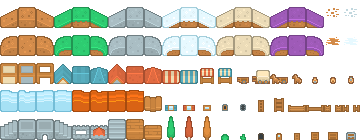
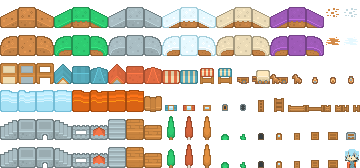
adding npc and trees

diff --git a/scripts/player.js b/scripts/player.js
@@ -12,10 +12,21 @@ let map = [
     4, 4, 4, 4, 4, 4, 4, 4, 4,
     4, 4, 4, 62, 61, 63, 4, 4, 4,
     4, 4, 4, 4, 4, 4, 4, 4, 4,
+    4, 4, 4, 4, 4, 4, 4, 4, 4,
 
 ];
 
-let blockers = [61, 62, 63]
+let mapEnemies = [
+    -1, 112, -1, -1, 90, -1, -1, 113, -1,
+    90, -1, -1, -1, -1, -1, -1, -1, -1,
+    90, -1, -1, -1, -1, -1, -1, -1, -1,
+    90, -1, 90, 119, -1, -1, -1, -1, -1,
+    -1, 109, 112, 112, 112, 112, 112, 112, 112,
+]
+
+let blockers = [61, 62, 63,1,2,3,5,6,7,8]
+let blockersEnemy = [90, 112, 109]
+let blockersNpc = [119]
 
 function preloadPlayer() {
     tileset = loadImage("assets/blockPack_Packed.png");
@@ -40,8 +51,9 @@ function drawPlayer() {
     scale(2.5)
         //translate(100,100)
     drawTiles(map, 9, 20, 18, 28);
-
     player.draw();
+    drawEnemies(mapEnemies, 9, 20, 18, 28)
+
     player.attack(atk);
     pop()
 }
@@ -63,6 +75,31 @@ function drawTiles(map, d_cols, s_cols, tilesizex, tilesizey) {
         } else if (i >= 9) {
 
             image(tileset, dx, dy - d, tilesizex, tilesizey, sx, sy, tilesizex, tilesizey);
+        }
+        // else if (i < 27) {
+        //     image(tileset, dx, dy-28, tilesizex, tilesizey, sx, sy, tilesizex, tilesizey);
+        // }
+
+    }
+}
+
+function drawEnemies(map, d_cols, s_cols, tilesizex, tilesizey) {
+    for (let i = 0; i < map.length; i++) {
+        let value = map[i];
+        // source x , y
+        let sx = (value % s_cols) * tilesizex;
+        let sy = Math.floor(value / s_cols) * tilesizey;
+        // distenation x , y
+        let dx = (i % d_cols) * tilesizex;
+        let dy = Math.floor(i / d_cols) * tilesizey;
+        // render image
+        let d = Math.floor(i / 9) * 14
+            // console.log("i is " + i + " divide %" + Math.floor(i / 9))
+        if (i < 9) {
+            image(tileset, dx, dy-14, tilesizex, tilesizey, sx, sy, tilesizex, tilesizey);
+        } else if (i >= 9) {
+
+            image(tileset, dx, dy - d - 14, tilesizex, tilesizey, sx, sy, tilesizex, tilesizey);
         }
         // else if (i < 27) {
         //     image(tileset, dx, dy-28, tilesizex, tilesizey, sx, sy, tilesizex, tilesizey);
@@ -105,8 +142,8 @@ function keyPressed() {
 class Player {
     constructor() {
         this.size = 16;
-        this.x = 1;
-        this.y = 1;
+        this.x = 1+18;
+        this.y = 1+14;
     }
 
     draw() {
@@ -119,6 +156,9 @@ class Player {
         if (blockers.includes(map[Math.floor(this.x / 18) + (Math.floor(this.y / 14) * 9)])) {
             this.y += 14;
         }
+        if (blockersEnemy.includes(mapEnemies[Math.floor(this.x / 18) + (Math.floor(this.y / 14) * 9)])) {
+            this.y += 14;
+        }
 
     }
 
@@ -126,6 +166,9 @@ class Player {
 
         this.x += 18;
         if (blockers.includes(map[Math.floor(this.x / 18) + (Math.floor(this.y / 14) * 9)])) {
+            this.x -= 18;
+        }
+        if (blockersEnemy.includes(mapEnemies[Math.floor(this.x / 18) + (Math.floor(this.y / 14) * 9)])) {
             this.x -= 18;
         }
         //console.log("player on " + "x " + this.x + " y " + this.y + " tilemap " + map[Math.floor(this.x / 18) + (Math.floor(this.y / 14) * 9])
@@ -136,6 +179,9 @@ class Player {
         if (blockers.includes(map[Math.floor(this.x / 18) + (Math.floor(this.y / 14) * 9)])) {
             this.y -= 14;
         }
+        if (blockersEnemy.includes(mapEnemies[Math.floor(this.x / 18) + (Math.floor(this.y / 14) * 9)])) {
+            this.y -= 14;
+        }
     }
 
     moveLeft() {
@@ -143,7 +189,9 @@ class Player {
         if (blockers.includes(map[Math.floor(this.x / 18) + (Math.floor(this.y / 14) * 9)])) {
             this.x += 18;
         }
-
+        if (blockersEnemy.includes(mapEnemies[Math.floor(this.x / 18) + (Math.floor(this.y / 14) * 9)])) {
+            this.x += 18;
+        }
     }
 
     attack(atk) {
